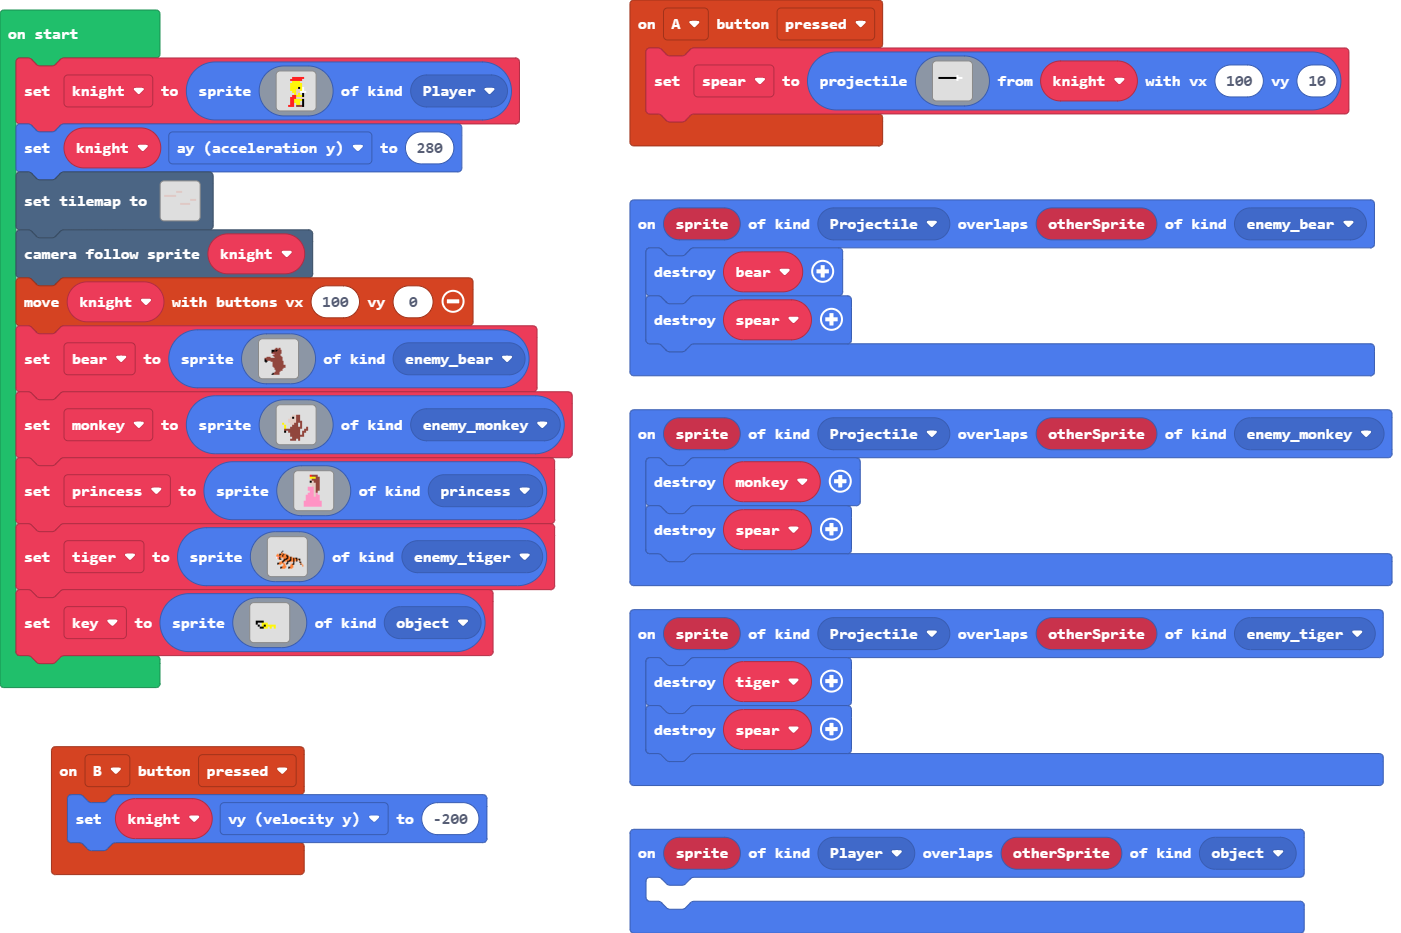
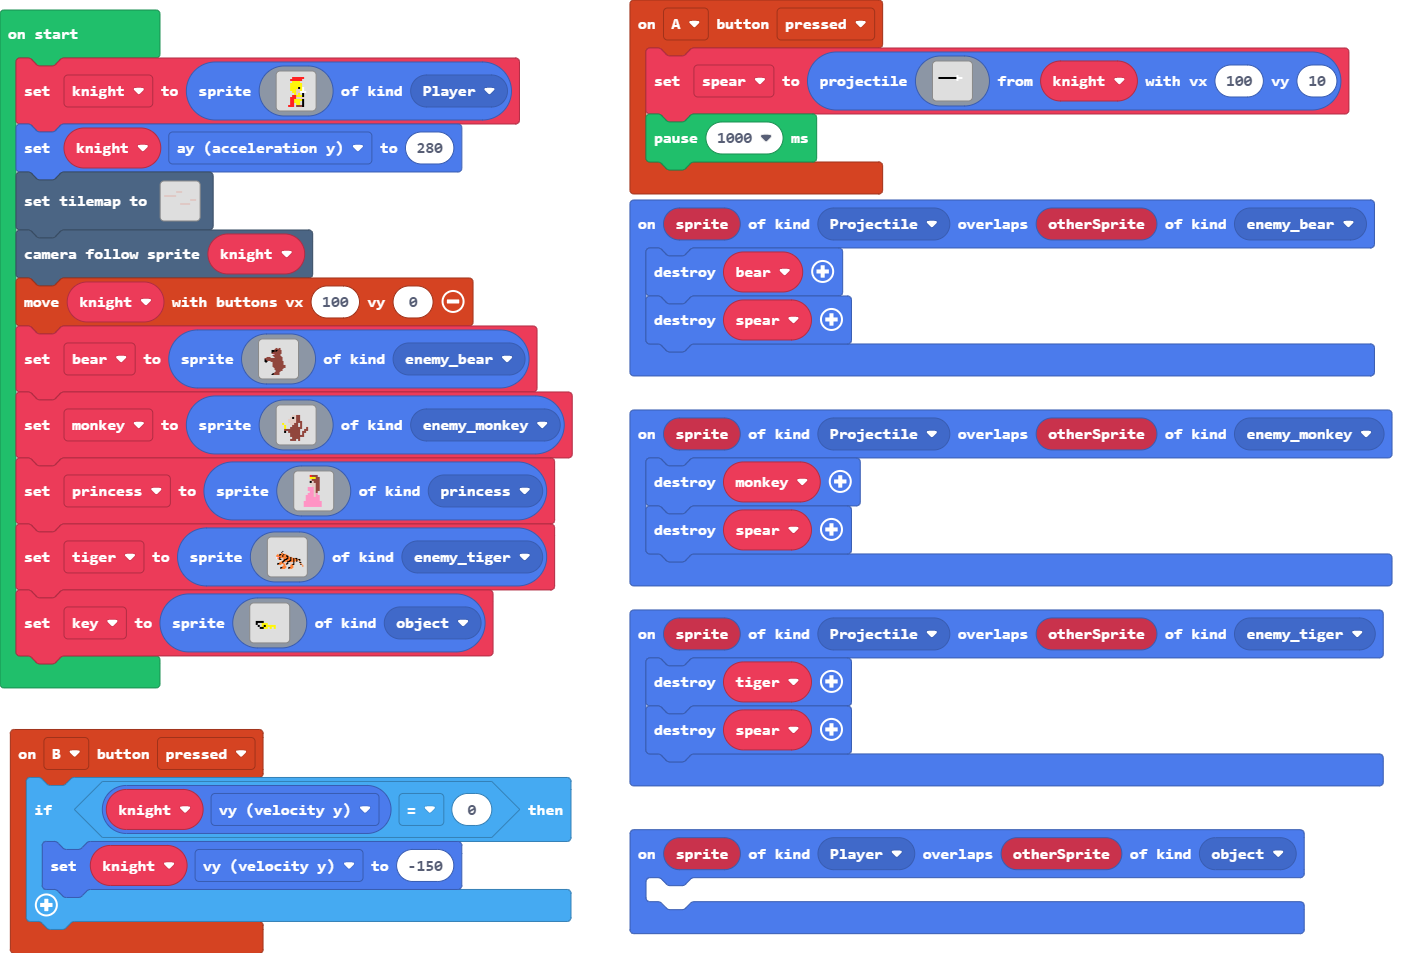
Update main.blocks, main.ts

diff --git a/main.ts b/main.ts
@@ -7,7 +7,9 @@ namespace SpriteKind {
     export const enemy_tiger = SpriteKind.create()
 }
 controller.B.onEvent(ControllerButtonEvent.Pressed, function () {
-    knight.vy = -200
+    if (knight.vy == 0) {
+        knight.vy = -150
+    }
 })
 controller.A.onEvent(ControllerButtonEvent.Pressed, function () {
     spear = sprites.createProjectileFromSprite(img`
@@ -28,6 +30,7 @@ controller.A.onEvent(ControllerButtonEvent.Pressed, function () {
         . . . . . . . . . . . . . . . . 
         . . . . . . . . . . . . . . . . 
         `, knight, 100, 10)
+    pause(1000)
 })
 sprites.onOverlap(SpriteKind.Projectile, SpriteKind.enemy_bear, function (sprite, otherSprite) {
     bear.destroy()
